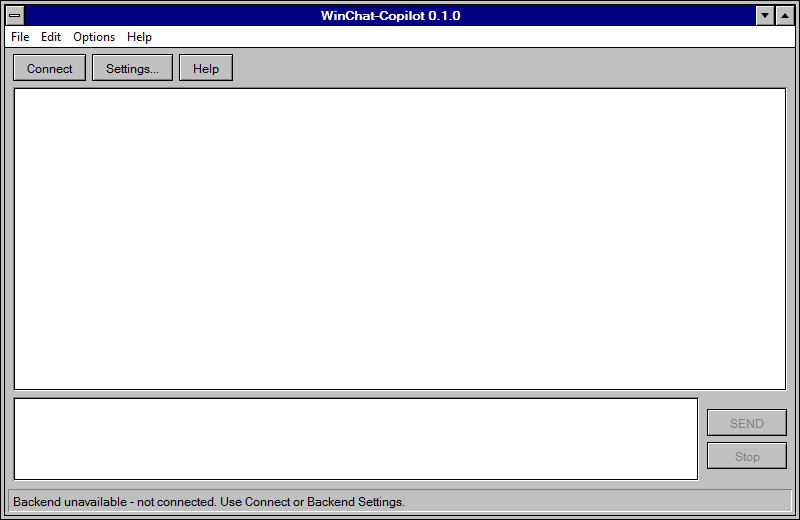
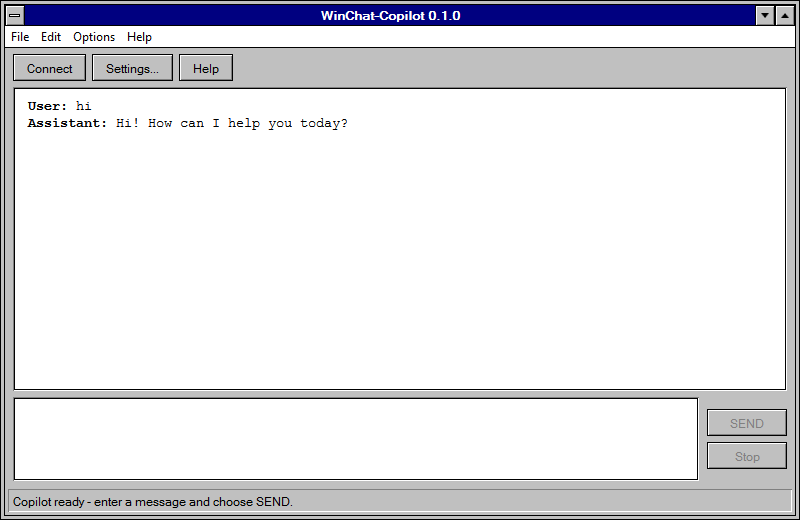
Show real Copilot greeting in README screenshot

Changed region(s): [[0.0, 0.9538, 0.5, 0.9846], [0.0312, 0.1846, 0.25, 0.2462], [0.2812, 0.2154, 0.4375, 0.2462]]

diff --git a/README.md b/README.md
@@ -1,6 +1,6 @@
 # win95-copilot
 
-![WinChat-Copilot 0.1.0 Windows 3.1-style application window](docs/images/winchat-copilot.png)
+![WinChat-Copilot 0.1.0 showing a hi message and Copilot's response](docs/images/winchat-copilot.png)
 
 ## Application scaffold
 
